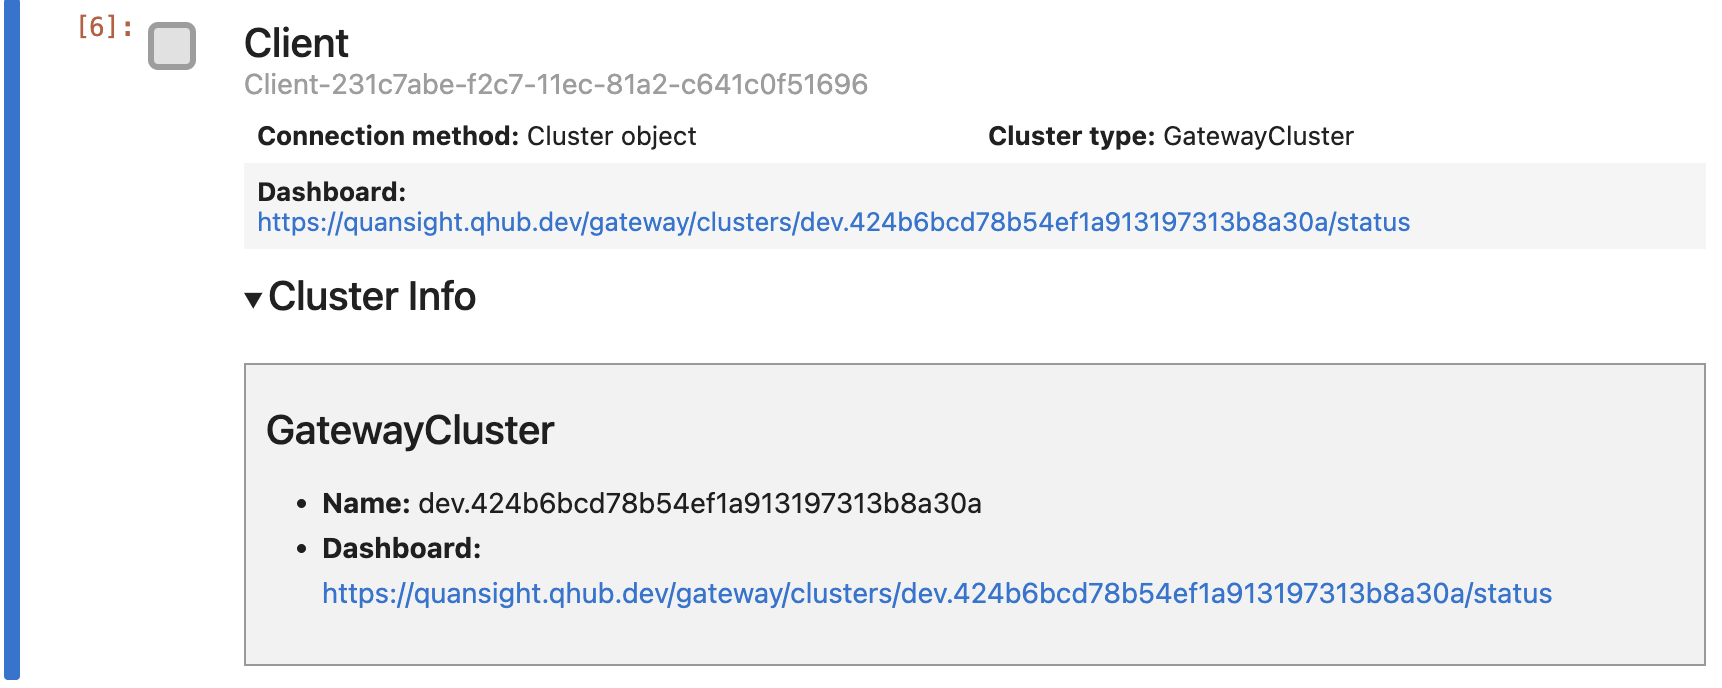
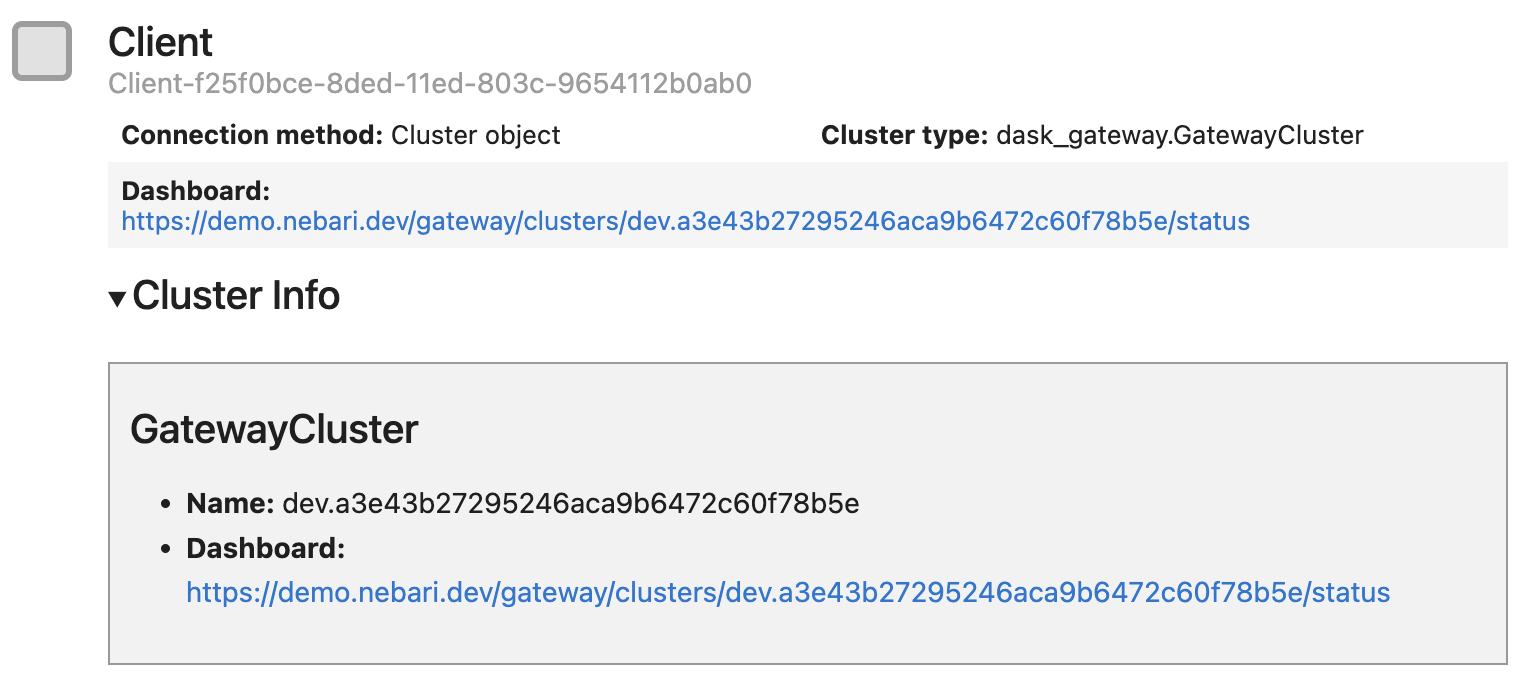
update screenshots and use adaptive scaling

diff --git a/docs/docs/tutorials/using_dask.md b/docs/docs/tutorials/using_dask.md
@@ -61,7 +61,7 @@ options = gateway.cluster_options()
 options
 ```
 
-![Nebari - Cluster Options UI](/img/tutorials/cluster_options.png)
+![Nebari - Cluster Options UI](/img/tutorials/dask_cluster_options.png)
 
 Using the `Cluster Options` interface, you can specify the `conda` environment for Dask workers, the instance type for the workers, and any additional
 environment variables you'll need.
@@ -89,7 +89,7 @@ By default, you see "Environment", "Cluster Profile", and "Environment Variables
    ```
 
    Once you run the cell, you'll see the following:
-   ![Creating a Gateway Cluster UI](/img/tutorials/cluster_creation.png)
+   ![Creating a Gateway Cluster UI](/img/tutorials/dask_cluster_creation.png)
 
 2. You have the option to choose between `Manual Scaling` and `Adaptive Scaling`.
 
@@ -100,6 +100,9 @@ By default, you see "Environment", "Cluster Profile", and "Environment Variables
    than others, you can select `Adaptive Scaling`. Dask Gateway will automatically scale the number of workers
    (spinning up new workers or shutting down unused ones) depending on the computational border. `Adaptive Scaling` is
    a safe way to prevent running out of memory, while not burning excess resources.
+
+   For this tutorial, we suggest trying the Adaptive Scaling feature.
+   In the Gateway Cluster UI, set the minimum value to 1 worker and maximum to 5 workers, and click on the `Adapt` button.
 
    You may also notice a link to the Dask Dashboard in this interface. We'll discuss this in a later section.
 
@@ -140,7 +143,7 @@ import TabItem from '@theme/TabItem';
 
 Dask's diagnostic dashboard will open in a new browser tab if you click on the dashboard links displayed in the Client UI or Cluster UI above.
 
-![Dask diagnostic UI - showing four parallel computation streams](/img/tutorials/dask_diagostic_UI.png)
+![Dask diagnostic UI - showing four parallel computation streams](/img/tutorials/dask_diagnostic_dashboard.png)
 
   </TabItem>
   <TabItem value="labextension" label="Dask JupyterLab extension (recommended)">
@@ -157,16 +160,21 @@ Alternatively, you can copy-and-paste the dashboard link (displayed in the Clien
   </TabItem>
 </Tabs>
 
-Let's understand the dashboard plots `Task Stream`, `Progress`, and `Cluster map`.
-The colors and the interpretation would differ based on the computation we choose.
+Let's open and understand the dashboard plots `Task Stream`, `Progress`, and `Cluster map`.
 
-Each of the computation you submit to Dask (you will learn more in the next section) in split into multiple tasks for parallel execution.
-From the progress bar we see 4 distinct colors associated with different computation.
-Under task stream (a streaming plot) each row represents a thread
+Most colors and the interpretation would differ based on the computation you choose.
+However, some colors like red always indicate inter-worker communication and data transfer.
+
+Each of the computation you submit to Dask (you will learn more in the next section) is split into multiple tasks for parallel execution.
+
+In the `Progress` plot, we see the distinct colors associated with different tasks to complete the overall computation.
+These colors remain consistent throughout the dashboard plots.
+
+In the `Task Stream` (a streaming plot) each row represents a thread (a Dask worker can have multiple threads)
 and the small rectangles within are the individual tasks.
 
-The Cluster map shows the Dask scheduler at the center, with the active Dask workers around it.
-It is a convenient way to visualize Adaptive scaling, and ensure new workers are being spun-up and shut-down based on workflow demand.
+The `Cluster Map` shows the Dask scheduler at the center in a purple circle, with the active Dask workers around it in yellow circles.
+This diagram is a convenient way to visualize Adaptive scaling, and ensure new workers are being spun-up and shut-down based on workflow demand.
 
 Check out the [Dask Documentation on the dashboard plots](https://docs.dask.org/en/stable/dashboard.html) for more information.
 Keep the dashboard plots open for the following computations!
@@ -218,7 +226,7 @@ This dataset is saved in Parquet format, a column-oriented file format commonly 
    gb_date["num_rides_7_rolling_ave"] = gb_date.tpep_pickup_datetime.rolling(7).mean()
    ```
 
-4. Now you can compare number of taxi rides on April 15th across three different years.
+4. Now you can compare number of taxi rides on April 15th across three different years. In the `Cluster Map`, notice how new workers are spun-up to execute that task.
 
    **For April 15th, 2019 - pre-pandemic**
 
